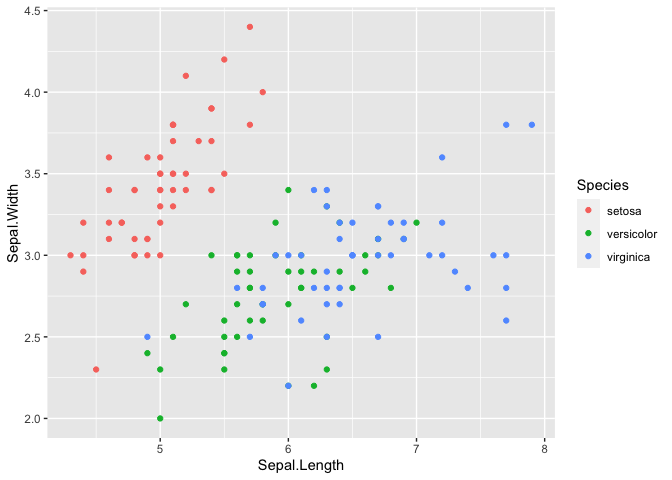
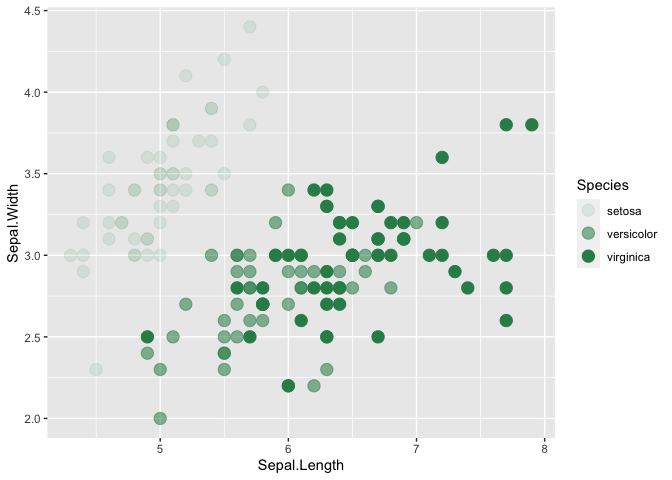
Change the order

diff --git a/Styling-Scatterplot.md b/Styling-Scatterplot.md
@@ -67,9 +67,61 @@ ggplot(data = iris, aes(
 One of the most powerful and magic abilities of the *ggplot2* package is
 to map a variable to marker features.
 
+#### <span style="color:orange"> **Transparency** </span>
+
+  - We can distinguish the `Species` by `transparency`.
+
+<!-- end list -->
+
+``` r
+ggplot(iris, aes(x=Sepal.Length, y=Sepal.Width, 
+                 ## Where transparency comes in
+                 alpha=Species)) + 
+    geom_point(size =4, color="seagreen") 
+```
+
+![](Styling-Scatterplot_files/figure-gfm/unnamed-chunk-3-1.png)<!-- -->
+
+#### <span style="color:orange"> **Shape** </span>
+
+  - `Shape` is also a common way to help us to see relationship between
+    two variables within different groups.
+  - Additionally, you can always change the shape of the points. Check
+    [here](https://www.datanovia.com/en/blog/ggplot-point-shapes-best-tips/)
+    for more ideas.
+
+<!-- end list -->
+
+``` r
+ggplot(iris, aes(x=Sepal.Length, y=Sepal.Width, 
+                 ## Where shape comes in
+                 shape=Species)) + 
+    geom_point(size = 4,color="orange") 
+```
+
+![](Styling-Scatterplot_files/figure-gfm/unnamed-chunk-4-1.png)<!-- -->
+
+#### <span style="color:orange"> **Size** </span>
+
+  - Furthermore, `size` is a great option that we can take a look at as
+    well.
+  - However, note that `size` will work better with continuous
+    variables.
+
+<!-- end list -->
+
+``` r
+ggplot(iris, aes(x=Sepal.Length, y=Sepal.Width, 
+                 ## Where size comes in 
+                 size=Species)) + 
+    geom_point(shape = 18, color = "#FC4E07") 
+```
+
+![](Styling-Scatterplot_files/figure-gfm/unnamed-chunk-5-1.png)<!-- -->
+
 #### <span style="color:orange"> **Color** </span>
 
-  - For example, if we want to the marker `color` depends on the
+  - Last but not least, if we want to the marker `color` depends on the
     variable `Species` in the `iris` dataset, we can do the following:
 
 <!-- end list -->
@@ -89,7 +141,7 @@ ggplot(data = iris, aes(x=Sepal.Length, y=Sepal.Width,
   geom_point()
 ```
 
-![](Styling-Scatterplot_files/figure-gfm/unnamed-chunk-3-1.png)<!-- -->
+![](Styling-Scatterplot_files/figure-gfm/unnamed-chunk-6-1.png)<!-- -->
 
   - ##### *Note*
     
@@ -116,7 +168,7 @@ ggplot(data = iris, aes(x=Sepal.Length, y=Sepal.Width, color=Species))+
   scale_colour_brewer(palette = "Set1") ## There are more options available for palette
 ```
 
-![](Styling-Scatterplot_files/figure-gfm/unnamed-chunk-4-1.png)<!-- -->
+![](Styling-Scatterplot_files/figure-gfm/unnamed-chunk-7-1.png)<!-- -->
 
 ``` r
 ggplot(data = iris, aes(x=Sepal.Length, y=Sepal.Width, color=Species))+
@@ -125,59 +177,7 @@ ggplot(data = iris, aes(x=Sepal.Length, y=Sepal.Width, color=Species))+
   scale_color_viridis(discrete=TRUE,option = "D")  ## There are more options to choose
 ```
 
-![](Styling-Scatterplot_files/figure-gfm/unnamed-chunk-4-2.png)<!-- -->
-
-#### <span style="color:orange"> **Transparency** </span>
-
-  - We can always distinguish the `Species` by `transparency`.
-
-<!-- end list -->
-
-``` r
-ggplot(iris, aes(x=Sepal.Length, y=Sepal.Width, 
-                 ## Where transparency comes in
-                 alpha=Species)) + 
-    geom_point(size =4, color="seagreen") 
-```
-
-![](Styling-Scatterplot_files/figure-gfm/unnamed-chunk-5-1.png)<!-- -->
-
-#### <span style="color:orange"> **Shape** </span>
-
-  - `Shape` is also a common way to help us to see relationship between
-    two variables within different groups.
-  - Additionally, you can always change the shape of the points. Check
-    [here](https://www.datanovia.com/en/blog/ggplot-point-shapes-best-tips/)
-    for more ideas.
-
-<!-- end list -->
-
-``` r
-ggplot(iris, aes(x=Sepal.Length, y=Sepal.Width, 
-                 ## Where shape comes in
-                 shape=Species)) + 
-    geom_point(size = 4,color="orange") 
-```
-
-![](Styling-Scatterplot_files/figure-gfm/unnamed-chunk-6-1.png)<!-- -->
-
-#### <span style="color:orange"> **Size** </span>
-
-  - Furthermore, `size` is a great option that we can take a look at as
-    well.
-  - However, note that `size` will work better with continuous
-    variables.
-
-<!-- end list -->
-
-``` r
-ggplot(iris, aes(x=Sepal.Length, y=Sepal.Width, 
-                 ## Where size comes in 
-                 size=Species)) + 
-    geom_point(shape = 18, color = "#FC4E07") 
-```
-
-![](Styling-Scatterplot_files/figure-gfm/unnamed-chunk-7-1.png)<!-- -->
+![](Styling-Scatterplot_files/figure-gfm/unnamed-chunk-7-2.png)<!-- -->
 
 #### <span style="color:orange"> **Put all the options together** </span>
 
@@ -195,7 +195,6 @@ ggplot(iris, aes(x=Sepal.Length, y=Sepal.Width,
                  col=Species,
                  shape=Species)) + 
   geom_point(size = 3) +
-  scale_shape_manual(values = c(3, 10, 16))+
   ## Using viridis package here
   scale_color_viridis(discrete=TRUE,option = "D") 
 ```
